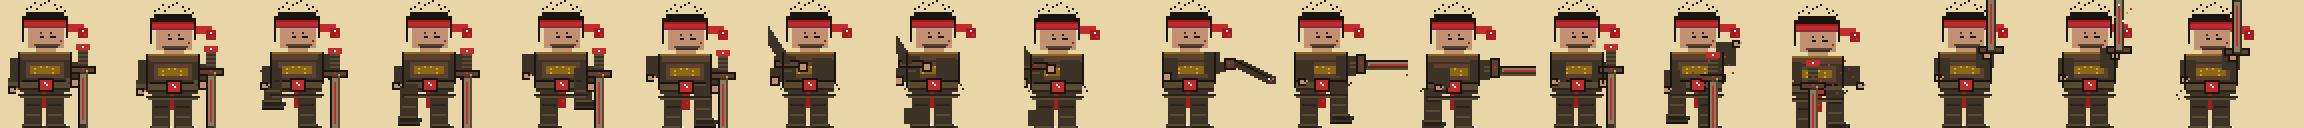
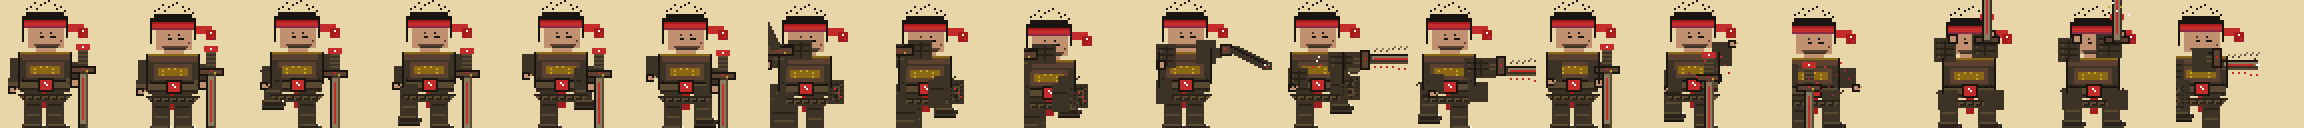
v0.9.0: 同步青衣／浪人精靈最新精修
納入墨點美術後續覆寫嘅 64 表、gen 腳本、報告同預覽（含 compare／判定幀預覽）。

diff --git a/tools/gen_sprites_64_v09.py b/tools/gen_sprites_64_v09.py
@@ -1,7 +1,7 @@
 #!/usr/bin/env python3
 """v0.9 Ink-Pixel Inn — high-density native 64×64 spritesheets (qingyi + langren).
 
-Push-over refinement. Hard-edge, palette-locked, transparent bg, facing RIGHT.
+v0.9 r2 — bigger windup/parry vs idle; denser folds/arcs; clear hit-frame silhouette.
 Layout: body biased LEFT so weapon silhouette reads clearly on the RIGHT.
 
 Frame map:
@@ -655,27 +655,33 @@ def lr_blade_vert(img, hx, hy, tip_down=True):
 
 
 def lr_blade_back(img, hx, hy, lean=0):
-    rect(img, hx, hy, hx + 5, hy + 5, INK_SOFT)
+    """Windup r2: odachi HIGH-BACK behind head."""
+    rect(img, hx - 1, hy, hx + 6, hy + 6, INK_SOFT)
     for yy in range(hy + 1, hy + 5, 2):
         hline(img, hx, hx + 5, yy, FRAME)
-    rect(img, hx - 4, hy - 2, hx + 9, hy + 2, WOOD)
-    outline_rect(img, hx - 4, hy - 2, hx + 9, hy + 2, INK)
+    rect(img, hx - 5, hy - 3, hx + 10, hy + 2, WOOD)
+    outline_rect(img, hx - 5, hy - 3, hx + 10, hy + 2, INK)
     px(img, hx + 2, hy - 1, CINN_B)
-    for i in range(22):
-        x = hx - 1 - (i * 2) // 3 - lean
-        y = hy - 3 - i
+    px(img, hx + 5, hy, GOLD)
+    for i in range(26):
+        x = hx - (i // 2) - lean * 2
+        y = hy - 4 - i
         rect(img, x, y, x + 5, y + 3, INK_SOFT)
         px(img, x, y, INK)
         px(img, x + 2, y + 1, MIST)
-        if i % 3 == 0:
+        if i % 2 == 0:
             px(img, x + 3, y + 1, CINN_B)
-    tx = hx - 1 - (21 * 2) // 3 - lean
-    ty = hy - 3 - 21
+        if i % 4 == 0:
+            px(img, x - 1, y + 1, FRAME)
+    tx = hx - (25 // 2) - lean * 2
+    ty = hy - 4 - 25
     px(img, tx + 2, ty - 1, CREAM)
     px(img, tx + 1, ty, MIST)
+    px(img, tx + 2, ty - 2, CREAM)
 
 
 def lr_blade_slash(img, hx, hy, length=22, dy=0, flash=False):
+    """Horizontal odachi + arc trail r2."""
     rect(img, hx - 4, hy - 1, hx + 1, hy + 4, INK_SOFT)
     for yy in range(hy, hy + 3, 2):
         hline(img, hx - 3, hx, yy, FRAME)
@@ -687,16 +693,20 @@ def lr_blade_slash(img, hx, hy, length=22, dy=0, flash=False):
     hline(img, hx + 5, hx + 5 + length, hy + 4 + dy, FRAME)
     rect(img, hx + 6, hy + 1 + dy, hx + 4 + length, hy + 3 + dy, MIST)
     hline(img, hx + 7, hx + 3 + length, hy + 2 + dy, CINN_B)
+    for i in range(0, length - 2, 3):
+        px(img, hx + 7 + i, hy - 2 + dy - (i // 8), FRAME)
+        px(img, hx + 8 + i, hy - 3 + dy - (i // 8), MIST)
+        px(img, hx + 7 + i, hy + 6 + dy + (i // 10), CINN_B)
     tip = hx + 4 + length
     px(img, tip, hy + 2 + dy, CREAM)
     px(img, tip, hy + 1 + dy, MIST)
     px(img, tip - 1, hy - 1 + dy, INK_SOFT)
+    px(img, tip + 1, hy + 2 + dy, CREAM)
     if flash:
-        px(img, tip - 2, hy - 3 + dy, GOLD)
-        px(img, tip, hy - 2 + dy, CREAM)
-        px(img, tip + 1, hy + 2 + dy, CREAM)
-        px(img, tip - 1, hy + 6 + dy, CINN_B)
-        px(img, tip - 3, hy + 7 + dy, BLOOD)
+        for dx, dy2, c in [(-2, -3, GOLD), (0, -2, CREAM), (1, 2, CREAM),
+                           (-1, 6, CINN_B), (-3, -4, CINN_B), (2, 0, CREAM),
+                           (-4, -5, GOLD), (1, 4, BLOOD), (-2, 7, CREAM)]:
+            px(img, tip + dx, hy + dy + dy2, c)
 
 
 def lr_blade_diag(img, hx, hy):
@@ -761,8 +771,7 @@ def langren_draw(img, pose):
     rect(img, rx0, ly - lift_r, rx0 + 9, ly + 16 - lift_r, INK_SOFT)
     hline(img, rx0 + 1, rx0 + 8, ly - lift_r + 6, NIGHT)
     hline(img, rx0 + 1, rx0 + 8, ly - lift_r + 11, FRAME)
-    hline(img, cx - 13, cx + 14, ly + 1, NIGHT)
-    hline(img, cx - 12, cx + 13, ly + 2, FRAME)
+    hem_layers(img, cx - 13, cx + 14, ly + 1, INK_SOFT, NIGHT, FRAME)
     if lift_l:
         px(img, lx0 - 2, ly - lift_l + 1, INK_SOFT)
         px(img, lx0 - 1, ly - lift_l, NIGHT)
@@ -799,38 +808,59 @@ def langren_draw(img, pose):
 
     elif kind == "windup":
         phase = pose.get("phase", 0)
-        rect(img, cx - 17, ty + 2, cx - 6, ty + 13, INK_SOFT)
-        rect(img, cx - 19, ty + 8, cx - 11, ty + 15, INK_SOFT)
-        hand(img, cx - 19, ty + 12, SKIN_D, fist=True)
-        rect(img, cx + 2, ty + 3, cx + 12, ty + 13, INK_SOFT)
-        hand(img, cx - 5, ty + 5, SKIN_D, fist=True)
-        px(img, cx + 14, ty + 16, INK_SOFT)
-        px(img, cx + 15, ty + 18, NIGHT)
-        px(img, cx - 14, ty + 18, FRAME)
-        lr_blade_back(img, cx - 13, ty + 6, lean=phase)
+        # r2 heavy coil: arms high-back, jacket flares, weight on rear
+        rect(img, cx - 19, ty - 6, cx - 8, ty + 6, INK_SOFT)
+        sleeve_folds(img, cx - 19, cx - 8, ty - 5, ty + 5, NIGHT, FRAME)
+        rect(img, cx - 21, ty - 2, cx - 13, ty + 6, INK_SOFT)
+        hand(img, cx - 21, ty + 2, SKIN_D, fist=True)
+        rect(img, cx - 8, ty - 8, cx + 4, ty + 2, INK_SOFT)
+        sleeve_folds(img, cx - 8, cx + 4, ty - 7, ty + 1, NIGHT, FRAME)
+        hand(img, cx - 10, ty - 6, SKIN_D, fist=True)
+        rect(img, cx + 12, ty + 12, cx + 20, ty + 24, INK_SOFT)
+        robe_folds(img, cx + 12, cx + 20, ty + 13, ty + 23, NIGHT, FRAME)
+        rect(img, cx - 17, ty + 14, cx - 9, ty + 26, INK_SOFT)
+        for dx, dy in [(15, 16), (17, 18), (18, 20), (-14, 18), (-16, 21)]:
+            px(img, cx + dx, ty + dy, CINN_B if dx > 0 else FRAME)
+        lr_blade_back(img, cx - 15, ty - 2, lean=phase + 1)
+        rect(img, cx - 17, ly + 4, cx - 3, ly + 16, INK_SOFT)
+        hline(img, cx - 16, cx - 4, ly + 8, NIGHT)
+        hline(img, cx - 15, cx - 5, ly + 12, FRAME)
         if phase >= 1:
-            rect(img, cx - 14, ly + 8, cx - 2, ly + 16, INK_SOFT)
+            rect(img, cx + 2, ly - 8, cx + 11, ly + 6, INK_SOFT)
+            hline(img, cx + 3, cx + 10, ly - 4, NIGHT)
 
     elif kind == "strike":
         phase = pose.get("phase", 0)
         if phase == 0:
-            rect(img, cx - 13, ty + 3, cx - 5, ty + 13, INK_SOFT)
-            hand(img, cx - 13, ty + 10, SKIN_D, fist=True)
-            rect(img, cx + 8, ty + 0, cx + 16, ty + 11, INK_SOFT)
-            hand(img, cx + 13, ty + 5, SKIN_D, fist=True)
-            lr_blade_diag(img, cx + 14, ty + 5)
+            rect(img, cx - 14, ty - 4, cx - 4, ty + 8, INK_SOFT)
+            sleeve_folds(img, cx - 14, cx - 4, ty - 3, ty + 7, NIGHT, FRAME)
+            hand(img, cx - 14, ty + 4, SKIN_D, fist=True)
+            rect(img, cx + 6, ty - 6, cx + 16, ty + 6, INK_SOFT)
+            hand(img, cx + 13, ty - 2, SKIN_D, fist=True)
+            lr_blade_diag(img, cx + 14, ty - 2)
+            rect(img, cx - 14, ty + 14, cx - 6, ty + 26, INK_SOFT)
         elif phase == 1:
-            rect(img, cx - 11, ty + 5, cx - 3, ty + 15, INK_SOFT)
-            hand(img, cx - 11, ty + 13, SKIN_D)
-            rect(img, cx + 8, ty + 2, cx + 18, ty + 12, INK_SOFT)
-            hand(img, cx + 16, ty + 4, SKIN_D, fist=True)
-            lr_blade_slash(img, cx + 18, ty + 5, length=24, dy=-1, flash=True)
+            # === HIT FRAME — heavy lunge, arm out, blade long ===
+            rect(img, cx - 14, ty + 8, cx - 4, ty + 18, INK_SOFT)
+            sleeve_folds(img, cx - 14, cx - 4, ty + 9, ty + 17, NIGHT, FRAME)
+            hand(img, cx - 14, ty + 16, SKIN_D)
+            rect(img, cx + 6, ty + 0, cx + 22, ty + 10, INK_SOFT)
+            sleeve_folds(img, cx + 6, cx + 22, ty + 1, ty + 9, NIGHT, FRAME)
+            sleeve_cuff(img, cx + 16, cx + 22, ty + 8, INK_SOFT, FRAME)
+            hand(img, cx + 20, ty + 2, SKIN_D, fist=True)
+            lr_blade_slash(img, cx + 22, ty + 3, length=28, dy=-2, flash=True)
+            rect(img, cx + 12, ty + 12, cx + 22, ty + 24, INK_SOFT)
+            robe_folds(img, cx + 12, cx + 22, ty + 13, ty + 23, NIGHT, FRAME)
+            for i, (dx, dy) in enumerate([(-2, 2), (-4, 0), (-6, 3), (-3, -2)]):
+                px(img, cx + 4 + dx, ty + 4 + dy, CINN_B if i % 2 == 0 else CREAM)
         elif phase == 2:
-            rect(img, cx - 9, ty + 7, cx - 1, ty + 17, INK_SOFT)
-            hand(img, cx - 9, ty + 15, SKIN_D)
-            rect(img, cx + 9, ty + 3, cx + 19, ty + 13, INK_SOFT)
-            hand(img, cx + 17, ty + 5, SKIN_D, fist=True)
-            lr_blade_slash(img, cx + 19, ty + 6, length=26, dy=0, flash=True)
+            rect(img, cx - 10, ty + 10, cx - 2, ty + 20, INK_SOFT)
+            hand(img, cx - 10, ty + 18, SKIN_D)
+            rect(img, cx + 8, ty + 2, cx + 24, ty + 12, INK_SOFT)
+            sleeve_folds(img, cx + 8, cx + 24, ty + 3, ty + 11, NIGHT, FRAME)
+            hand(img, cx + 22, ty + 4, SKIN_D, fist=True)
+            lr_blade_slash(img, cx + 24, ty + 5, length=26, dy=1, flash=True)
+            rect(img, cx + 10, ty + 14, cx + 20, ty + 24, INK_SOFT)
         else:
             rect(img, cx - 13, ty + 5, cx - 5, ty + 15, INK_SOFT)
             hand(img, cx - 13, ty + 13, SKIN_D)
@@ -862,19 +892,32 @@ def langren_draw(img, pose):
     elif kind == "parry":
         phase = pose.get("phase", 0)
         shake = pose.get("shake", 0)
-        rect(img, cx - 15, ty + 3, cx - 7, ty + 13, INK_SOFT)
-        hand(img, cx - 15, ty + 11, SKIN_D)
-        rect(img, cx + 6, ty - 2, cx + 15, ty + 8, INK_SOFT)
-        hand(img, cx + 9 + shake, ty - 1, SKIN_D, fist=True)
-        lr_blade_vert(img, cx + 11 + shake, ty + 0, tip_down=False)
-        if phase == 1:
-            for dx, dy, c in [(2, -24, CREAM), (6, -20, GOLD), (4, -16, CREAM),
-                              (8, -22, CINN_B), (0, -18, GOLD)]:
-                px(img, cx + 11 + shake + dx, ty + dy, c)
-        if phase == 2:
-            px(img, cx - 15, ty + 18, INK_SOFT)
-            px(img, cx - 17, ty + 20, NIGHT)
-            px(img, cx - 16, ty + 22, FRAME)
+        if phase < 2:
+            # overhead guard — arms up, blade high above head
+            rect(img, cx - 17, ty - 10, cx - 6, ty + 2, INK_SOFT)
+            sleeve_folds(img, cx - 17, cx - 6, ty - 9, ty + 1, NIGHT, FRAME)
+            hand(img, cx - 10, ty - 12, SKIN_D, fist=True)
+            rect(img, cx + 2, ty - 12, cx + 15, ty + 0, INK_SOFT)
+            sleeve_folds(img, cx + 2, cx + 15, ty - 11, ty - 1, NIGHT, FRAME)
+            hand(img, cx + 9 + shake, ty - 14, SKIN_D, fist=True)
+            lr_blade_vert(img, cx + 7 + shake, ty - 8, tip_down=False)
+            rect(img, cx - 15, ty + 16, cx - 5, ty + 26, INK_SOFT)
+            rect(img, cx + 8, ty + 16, cx + 18, ty + 26, INK_SOFT)
+            if phase == 1:
+                for dx, dy, c in [(0, -28, CREAM), (4, -26, GOLD), (2, -24, CREAM),
+                                  (6, -30, CINN_B), (-2, -26, GOLD), (8, -22, CREAM),
+                                  (3, -32, GOLD)]:
+                    px(img, cx + 7 + shake + dx, ty + dy, c)
+        else:
+            # dodge — deep side lean
+            rect(img, cx - 19, ty + 2, cx - 8, ty + 14, INK_SOFT)
+            sleeve_folds(img, cx - 19, cx - 8, ty + 3, ty + 13, NIGHT, FRAME)
+            hand(img, cx - 19, ty + 12, SKIN_D)
+            rect(img, cx - 4, ty - 4, cx + 8, ty + 8, INK_SOFT)
+            hand(img, cx + 4, ty - 2, SKIN_D, fist=True)
+            lr_blade_slash(img, cx + 6, ty + 0, length=18, dy=2, flash=False)
+            rect(img, cx - 19, ty + 14, cx - 7, ty + 28, INK_SOFT)
+            robe_folds(img, cx - 19, cx - 7, ty + 15, ty + 27, NIGHT, FRAME)
 
     vline(img, cx - 13, ty, ty + 18, INK)
     vline(img, cx + 13, ty, ty + 16, INK)
@@ -884,6 +927,7 @@ def langren_draw(img, pose):
 # assembly
 # ============================================================
 def poses_v09():
+    """r2: exaggerated windup/parry/strike offsets vs idle."""
     poses = []
     poses.append({"kind": "idle", "breath": 0, "bx": 0, "by": 0})
     poses.append({"kind": "idle", "breath": 1, "bx": 0, "by": 0})
@@ -891,20 +935,21 @@ def poses_v09():
     poses.append({"kind": "walk", "breath": 0, "lift_l": 4, "bx": 0})
     poses.append({"kind": "walk", "breath": 0, "lift_r": 12, "stride_r": 1, "bx": 2})
     poses.append({"kind": "walk", "breath": 1, "lift_r": 4, "bx": 0})
-    # windup — shift LEFT so back-sword fits
-    poses.append({"kind": "windup", "phase": 0, "breath": 0, "bx": -2})
-    poses.append({"kind": "windup", "phase": 1, "breath": 0, "bx": -4})
-    poses.append({"kind": "windup", "phase": 2, "breath": 1, "bx": -6})
-    # strike — body left so blade tip stays in frame
-    poses.append({"kind": "strike", "phase": 0, "breath": 0, "bx": -4})
-    poses.append({"kind": "strike", "phase": 1, "breath": 0, "bx": -2, "lift_r": 5})
-    poses.append({"kind": "strike", "phase": 2, "breath": 1, "bx": 0, "lift_l": 3})
-    poses.append({"kind": "strike", "phase": 3, "breath": 0, "bx": -2})
-    poses.append({"kind": "hurt", "phase": 0, "breath": 0, "bx": -6, "lift_l": 5})
-    poses.append({"kind": "hurt", "phase": 1, "breath": 1, "bx": -10, "by": 1, "lift_r": 3})
-    poses.append({"kind": "parry", "phase": 0, "breath": 0, "shake": 0, "bx": 0})
-    poses.append({"kind": "parry", "phase": 1, "breath": 0, "shake": 2, "bx": -2})
-    poses.append({"kind": "parry", "phase": 2, "breath": 1, "shake": 0, "bx": -5})
+    # windup — deep LEFT lean + slight crouch so high-back sword fits
+    poses.append({"kind": "windup", "phase": 0, "breath": 0, "bx": -4, "by": 2, "lift_l": 2})
+    poses.append({"kind": "windup", "phase": 1, "breath": 0, "bx": -8, "by": 2, "lift_r": 10})
+    poses.append({"kind": "windup", "phase": 2, "breath": 1, "bx": -10, "by": 3, "lift_r": 12})
+    # strike — body left; hit frame (phase1=frame10) lunges forward with front lift
+    poses.append({"kind": "strike", "phase": 0, "breath": 0, "bx": -6, "by": 0})
+    poses.append({"kind": "strike", "phase": 1, "breath": 0, "bx": -4, "by": 0, "lift_r": 10, "stride_r": 1})
+    poses.append({"kind": "strike", "phase": 2, "breath": 1, "bx": -2, "by": 0, "lift_l": 6})
+    poses.append({"kind": "strike", "phase": 3, "breath": 0, "bx": -4})
+    poses.append({"kind": "hurt", "phase": 0, "breath": 0, "bx": -8, "lift_l": 6})
+    poses.append({"kind": "hurt", "phase": 1, "breath": 1, "bx": -12, "by": 2, "lift_r": 4})
+    # parry — crouch + overhead; dodge deep left
+    poses.append({"kind": "parry", "phase": 0, "breath": 0, "shake": 0, "bx": 2, "by": 3, "lift_l": 4, "lift_r": 4})
+    poses.append({"kind": "parry", "phase": 1, "breath": 0, "shake": 3, "bx": 0, "by": 3, "lift_l": 5, "lift_r": 5})
+    poses.append({"kind": "parry", "phase": 2, "breath": 1, "shake": 0, "bx": -10, "by": 1, "lift_l": 8})
     return poses
 
 
@@ -978,8 +1023,8 @@ def write_readme():
 
 | 檔 | 尺寸 | 狀態 | 生成腳本 |
 |----|------|------|----------|
-| `qingyi.png` | **1152×64** | **v0.9 精修**（推倒重畫） | `tools/gen_sprites_64_v09.py` |
-| `langren.png` | **1152×64** | **v0.9 精修**（推倒重畫） | `tools/gen_sprites_64_v09.py` |
+| `qingyi.png` | **1152×64** | **v0.9 r2 精修**（姿勢差加大／判定幀） | `tools/gen_sprites_64_v09.py` |
+| `langren.png` | **1152×64** | **v0.9 r2 精修**（姿勢差加大／判定幀） | `tools/gen_sprites_64_v09.py` |
 | `tiezhang.png` | 1152×64 | 待 v0.9（暫留舊版） | `tools/gen_sprites_64.py` |
 | `qinshi.png` | 1152×64 | 待 v0.9（暫留舊版） | `tools/gen_sprites_64.py` |
 | `xiaoer.png` | 1152×64 | 待 v0.9（暫留舊版） | `tools/gen_sprites_64.py` |
@@ -1027,7 +1072,7 @@ python3 /workspace/wuxia-inn/tools/gen_sprites_64_v09.py
 def main():
     OUT.mkdir(parents=True, exist_ok=True)
     PREV.mkdir(parents=True, exist_ok=True)
-    report = ["# v0.9 sprite gen report", ""]
+    report = ["# v0.9 r2 sprite gen report", ""]
     total_oob = 0
     frame_labels = [
         "idle0", "idle1", "walk0", "walk1", "walk2", "walk3",
@@ -1035,7 +1080,7 @@ def main():
         "strike0", "strike1", "strike2", "strike3",
         "hurt0", "hurt1", "parry0", "parry1", "parry2",
     ]
-    key_preview = {"idle": 0, "windup": 7, "strike": 10, "hurt": 13, "parry": 15, "walk": 2}
+    key_preview = {"idle": 0, "windup": 7, "strike": 10, "strike_hit": 10, "hurt": 13, "parry": 15, "parry_dodge": 17, "walk": 2}
 
     for cid in ("qingyi", "langren"):
         sheet = make_sheet(cid)

diff --git a/assets/sprites/64/README.md b/assets/sprites/64/README.md
@@ -7,8 +7,8 @@
 
 | 檔 | 尺寸 | 狀態 | 生成腳本 |
 |----|------|------|----------|
-| `qingyi.png` | **1152×64** | **v0.9 精修**（推倒重畫） | `tools/gen_sprites_64_v09.py` |
-| `langren.png` | **1152×64** | **v0.9 精修**（推倒重畫） | `tools/gen_sprites_64_v09.py` |
+| `qingyi.png` | **1152×64** | **v0.9 r2 精修**（姿勢差加大／判定幀） | `tools/gen_sprites_64_v09.py` |
+| `langren.png` | **1152×64** | **v0.9 r2 精修**（姿勢差加大／判定幀） | `tools/gen_sprites_64_v09.py` |
 | `tiezhang.png` | 1152×64 | 待 v0.9（暫留舊版） | `tools/gen_sprites_64.py` |
 | `qinshi.png` | 1152×64 | 待 v0.9（暫留舊版） | `tools/gen_sprites_64.py` |
 | `xiaoer.png` | 1152×64 | 待 v0.9（暫留舊版） | `tools/gen_sprites_64.py` |
